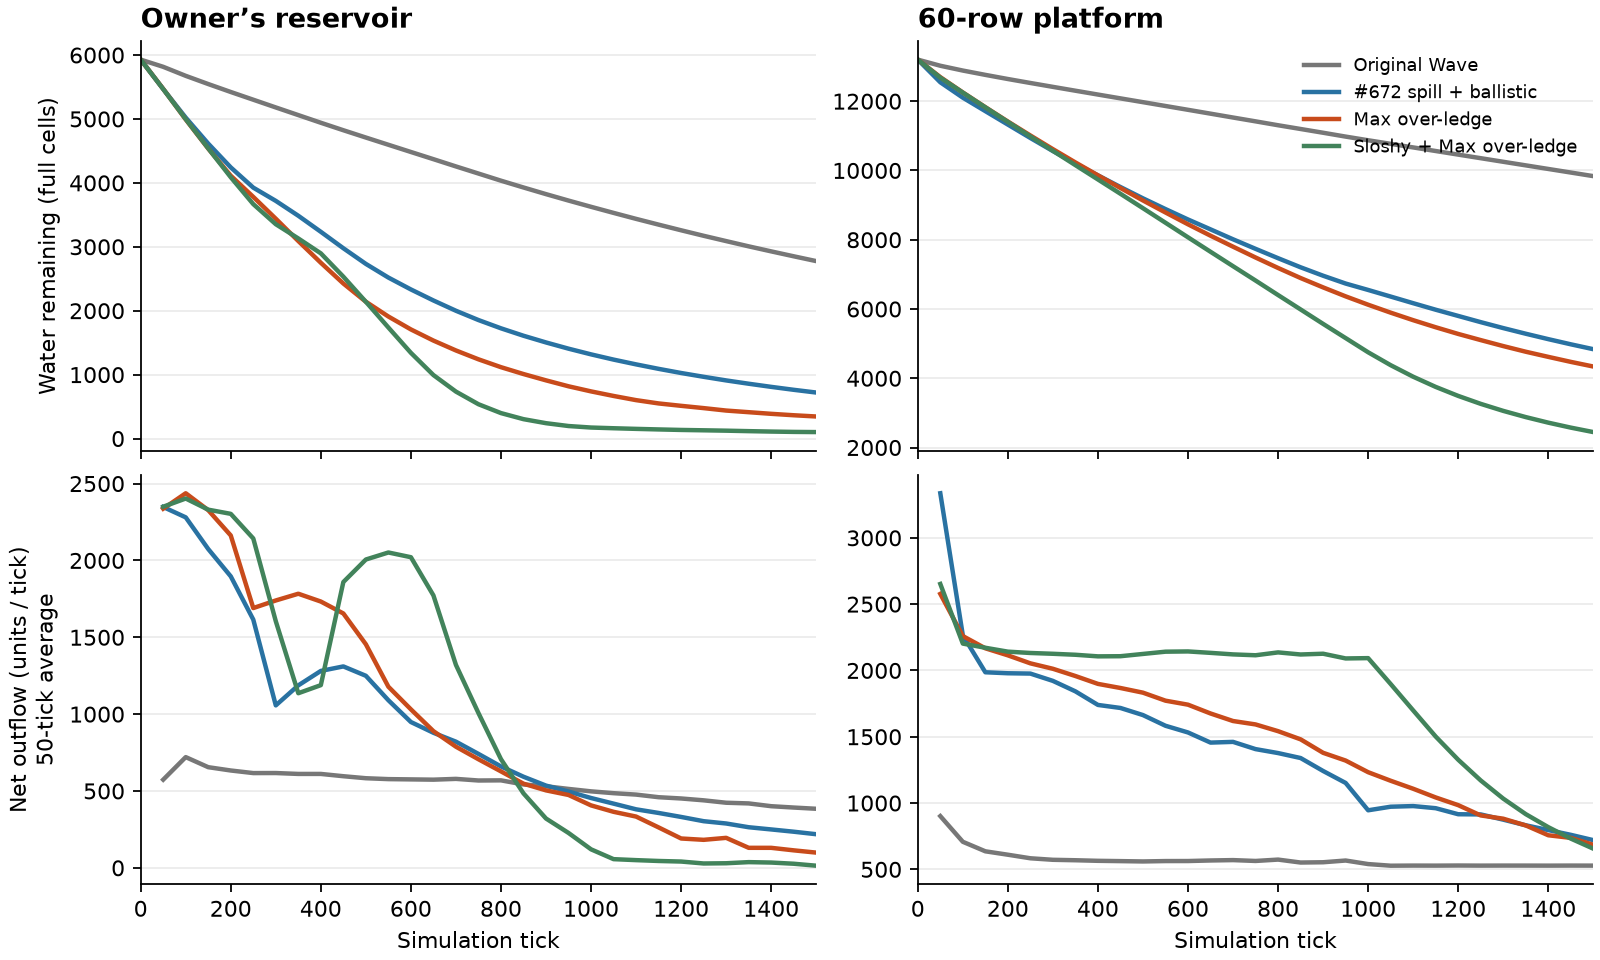
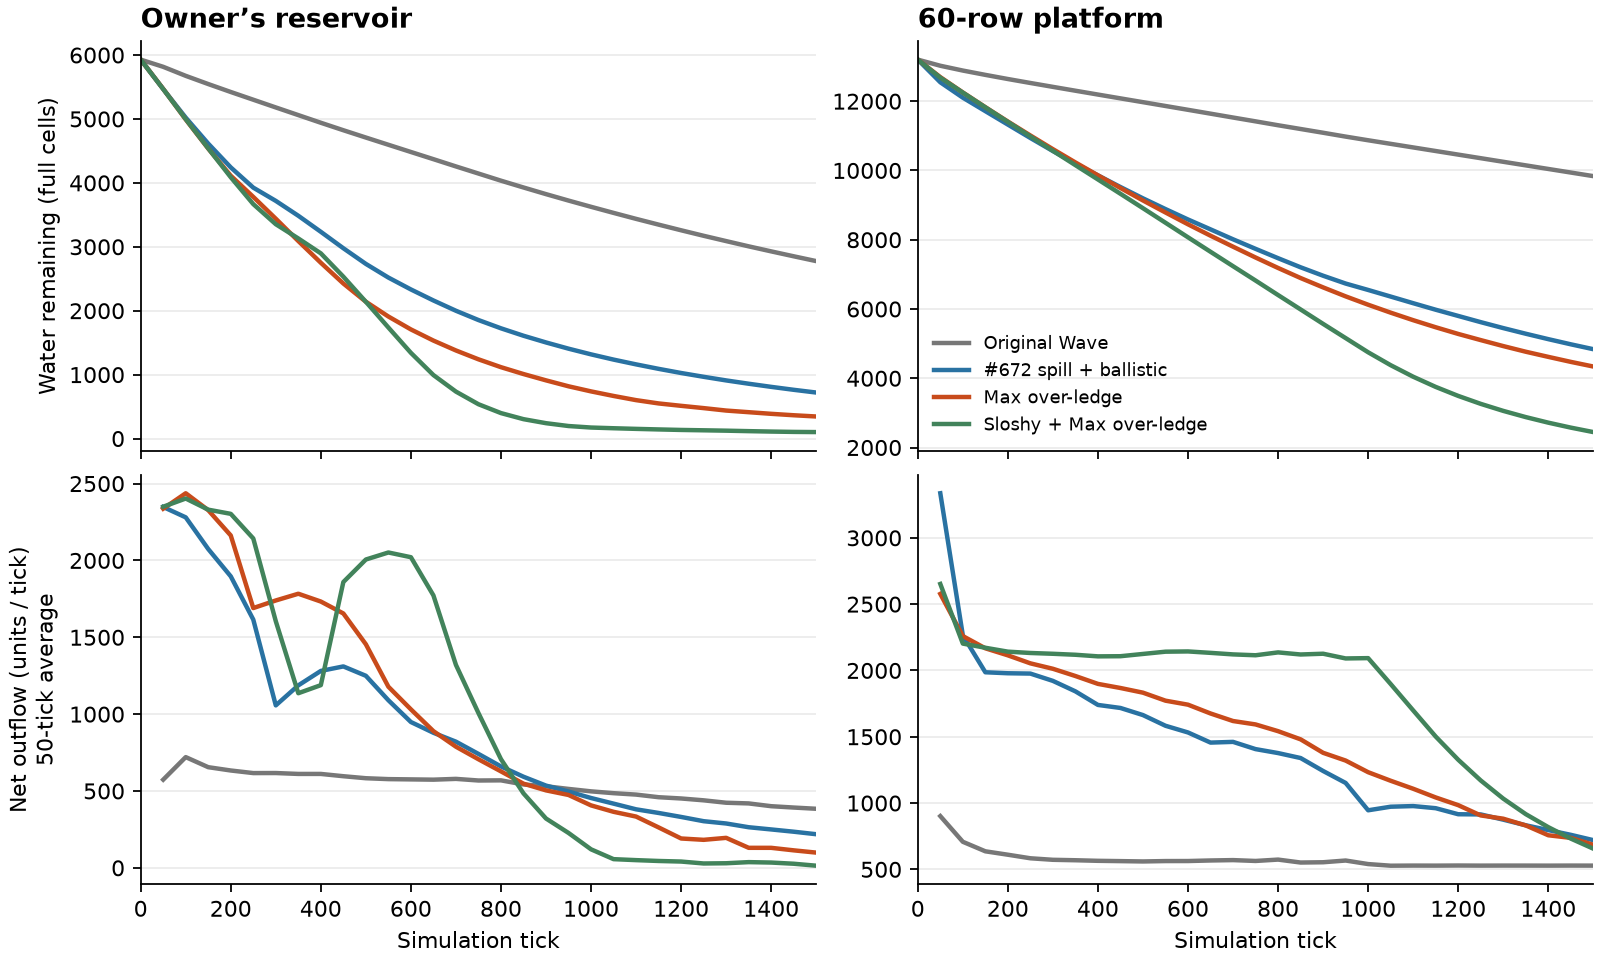
Record grid overhang comparison, local sanitizers and verified publication

Changed region(s): [[0.5938, 0.3438, 0.75, 0.4688], [0.8125, 0.0625, 1.0, 0.1562]]

diff --git a/docs/audits/wave-waterwall-002-2026-11-19/grid-comparison.md b/docs/audits/wave-waterwall-002-2026-11-19/grid-comparison.md
@@ -1,0 +1,97 @@
+---
+title: Grid and parcel crest travel on the Waterwall map and open tank
+status: Current
+document-kind: audit
+scope: Rejected research candidate for Wave Waterwall 002
+last-reviewed: 2026-11-19
+related-documents: [../2026-11-19-wave-waterwall-002.md, ../../architecture/wave-flow-v1.md]
+---
+
+# Grid and parcel crest travel, 19 November 2026
+
+**Keep the parcel version.** In the open tank, the four-round grid lip reached
+four cells out three ticks earlier, then fragmented into separate Water cells.
+The four-tick parcel grace carried 3.35 times as much Water through the same
+high probe over the run. On the owner map the two versions had nearly identical
+tick costs, and the parcel version kept more spray and emptied the reservoir
+slightly sooner.
+
+![Open-tank crest sequence and owner-map crops from the native apparatus](grid-crest-comparison.png)
+
+## Results
+
+The open tank used Sloshy and Max over-ledge together. The map used Max
+over-ledge with ordinary Wave tuning. Occupancy in the high probe sums grid and
+parcel mass in x85..116 and y32..43, four or more cells beyond the x81 wall and
+above its top. The sum over ticks weights both the amount and duration of the lip.
+
+| Open tank, 560 ticks | Parcel, 4 ticks | Grid, 4 rounds |
+|---|---:|---:|
+| First arrival in high probe | t146 | t143 |
+| Peak mass in high probe, units | 597 | 223 |
+| Total mass in probe over time, unit-ticks | 90,259 | 26,978 |
+| Parcels launched / units thrown | 553 / 44,537 | 237 / 27,315 |
+| Full tick median / p95, ms | 0.488 / 0.573 | 0.529 / 0.672 |
+
+| Supplied 1024² map | Parcel | Grid |
+|---|---:|---:|
+| Reservoir half-empty, tick | 369 | 375 |
+| Peak net outward units per tick, through t900 | 3,374 | 2,777 |
+| Reservoir grid mass at t900, cell equivalents | 902.3 | 935.9 |
+| Parcels launched / units thrown by t1500 | 92,079 / 6,265,581 | 26,712 / 3,247,140 |
+| Peak live parcels / launch refusals / deferrals | 2,324 / 170 / 22 | 728 / 104 / 0 |
+| Full tick median / p95, ms | 3.856 / 4.649 | 3.836 / 4.680 |
+| Reported Wave storage, bytes | 15,413,760 | 18,690,560 |
+
+Both candidates ran sequentially in the same pilot binary, with six workers and
+one round per tick. Each timed map ran for 1,500 ticks, each timed tank for 560.
+The local sanitizer was paused during these four runs. The 0.020 ms difference
+in map median is within the scale of single-run variation. Per-tick probes and
+native captures ran separately from the timed runs.
+
+## Grid rule and checks
+
+The pilot adds a signed remaining-round count per cell and a transfer marker per
+face. A qualifying exposed crest spends its usual face share on an Empty
+horizontal neighbour. For each of the next four rounds that cell keeps its height
+during vertical settling, then offers its mass to the next Empty cell in the
+same direction. A blocked advance, head-on arrival, or expiry returns the Water
+to normal settling. Only one horizontal face may spend a travelling donor, and
+each incoming share is capped at half nominal receiver capacity. The solid and
+paused-face checks run before a transfer. Deeper rows keep the existing
+ballistic release. The pilot walks one grid cell per round, with discrete
+positions and a discrete expiry. The parcel candidate retains its launch
+velocity and continuous fixed-point position.
+
+Grid runs on one and six workers produced identical every-tick traces and end
+state hashes on both fixtures. The map hash at t900 was `b9d186b5c043084f` and
+the tank hash at t560 was `25a738b8be04170d`. Every sampled total equalled the
+initial grid-plus-flight mass. A translated tank placed its lip at x125. In the
+unblocked control, 90.7 full-cell equivalents of grid Water reached x128 and
+beyond by t350. With a one-cell wall at x128 or a paused core beginning there,
+that region stayed dry throughout. These checks cover this prototype's
+scenarios. The shipped candidate receives the broader native and Godot gates.
+
+## Reproduction
+
+Apply the [scratch patch](grid-crest.patch) to a disposable checkout of
+`d4df71fc6bc1bf6267270a4c1445207a02716317`. The patch uses zero context.
+It adds apparatus controls only in this scratch build. The checked-in Workbench
+uses the parcel implementation. The binary and complete output-file hashes are
+in the [comparison receipt](grid-crest-results.json).
+
+```sh
+git apply --check --unidiff-zero /path/to/grid-crest.patch
+git apply --unidiff-zero /path/to/grid-crest.patch
+make wave-waterwall
+# All four timed runs use this bundle
+bundle='spill=1 ballistic=1 sheet_rate=64 draw=127 draw_head=65535 fall=8 launch_budget=128 catch=1'
+slosh='gain=32 deep_gain=16 flux_smoothing=16 damp_shift=16 coast=64 level_shift=3 calm_damp_shift=8 calm=128 stick=128 sleep_after=90'
+for crest in coyote_ticks=4 grid_rounds=4; do
+  timeout 240 build/wave_waterwall map terrain=terrain-1024.bin stamps=stamps.txt workers=6 ticks=1500 every=300 probe0=440,540,192,102 $bundle $crest
+  timeout 240 build/wave_waterwall tank_open size=128 workers=6 ticks=560 every=560 $bundle $slosh $crest
+done
+# Repeat the map at ticks=900 and the tank at ticks=560, workers=1 and 6,
+# with hydrograph=trace.csv and the relevant source_box and stream_box.
+# Map: 440,540,192,102 and 627,644,24,24. Tank: 85,32,32,12 and 82,32,32,12.
+```

diff --git a/docs/audits/wave-waterwall-002-2026-11-19/qualification.md b/docs/audits/wave-waterwall-002-2026-11-19/qualification.md
@@ -40,7 +40,7 @@ Two fresh runs passed 217 assertions / six captures each with no ERROR lines, us
 
 The two protected file transitions plus the Apply follow-up are recorded in the main audit.
 Source-first commits precede the compatibility entries. Dated historical M11 validation passed
-18 records / 28 hashes. The default retrieval evaluation found a top-five canonical answer for 30/32 questions.
+18 records / 28 hashes. The default retrieval evaluation found a top-five canonical answer for 30/32 questions, matching the #672 parent (19 first-ranked, MRR 0.7292 on both).
 The focused Wave evaluation found 6/6, with the new Water Lab question ranked first.
 
 ## Workbench captures
@@ -121,3 +121,58 @@ Request 17's Windows guard stopped before Godot execution when Bash parsed a Pow
 The Linux and Windows builds and the ordinary native lane had progressed. The successor uses one command
 per line under Bash's existing fail-fast setting. The local evaluation uses the same native source and
 the two successful graphical real-pointer runs. [Request 17](https://github.com/techrote/cybersand/actions/runs/44443701277).
+
+## Grid-crest follow-up
+
+A subsequent scratch experiment implemented and timed the alternative grid overhang from the design review.
+It conserved Water and gave identical 1- and 6-worker traces. It sent the first Water four cells past the wall
+three ticks earlier than the parcel crest but fragmented into separate cells. The parcel version carried
+3.35 times as much Water through the high probe over time. On the map, grid versus parcel t900 remainders
+were 936 versus 902 cells, with 3.25 versus 6.27 million units thrown by t1500. Median tick costs were
+3.84 versus 3.86 ms in one paired run. The executable used for the owner ZIP keeps the parcel version.
+The [scratch comparison, patch, frames and commands](grid-comparison.md) make the alternative reproducible.
+
+## Local final sanitizers
+
+Ubuntu WSL2 ran the normal suites, ASan with UBSan and TSan. Makefile sanitizer flags were
+`-O1 -g -pthread -fno-omit-frame-pointer` and `-fsanitize=address,undefined` or `-fsanitize=thread`.
+The runtime commands used `UBSAN_OPTIONS=halt_on_error=1 ASAN_OPTIONS=halt_on_error=1` or
+`TSAN_OPTIONS=halt_on_error=1 setarch x86_64 -R`, with 900 seconds allowed per sanitizer process.
+The WSL TSan spill process was suspended during the isolated timing runs. The checks include the
+12 unchanged base-law hashes, four pinned spill hashes, two-sided partial donors, overfill, size bounds,
+walls, paused cores, capacity, expiry, conversion and worker parity.
+
+| Final binary | Result | SHA-256 |
+|---|---|---|
[5 lines of base64/hex data omitted]
+
+## Published-platform evidence for request 18
+
+[GitHub-hosted request 18](https://github.com/techrote/cybersand/actions/runs/44444683852) built native source
+`579a842a803eca2c387e80c616cabe01fbac1d3d`. The downloaded Linux and Windows evidence bundles agree
+on all 95 native inputs and 857 build inputs. All 952 tracked file digests matched the request's Git tree.
+Both platforms passed the real Workbench Wave (1,265 assertions, 12 sections), spill (669 checks, seven
+sections), failure containment (77 checks) and failed-World status (215 checks). All downloaded execution
+logs contained zero ERROR lines. Linux graphical Workbench passed 217 assertions and six captures.
+The separate CI Windows package passed all five extracted-package cases; the owner-local ZIP above
+also contains the supplied map.
+
+| Runtime | SHA-256 |
+|---|---|
[2 lines of base64/hex data omitted]
+
+The local full `timeout 1600 make -j2 test` passed all 192 aggregate cases and the prerequisite
+soliding, world-generation and material-baseline suites. An earlier scratch run omitted the capability
+matrix JSON used by the liquid-policy identity test; copying the committed fixture and rerunning the
+complete target resolved that apparatus failure.
+
+All nine publisher jobs passed, including the normal, ASan/UBSan and TSan Wave, spill and body-boundary
+campaign. The bot published exactly the two LFS runtimes and their two provenance files in
+`7851f24eb1838704e4e7791c406ea7ba6dc2ef49`. After fast-forwarding to that commit, the strict
+materialized repository check passed. The [Draft/HOLD PR](https://github.com/techrote/cybersand/pull/676)
+records the final empty commit and its checks.
